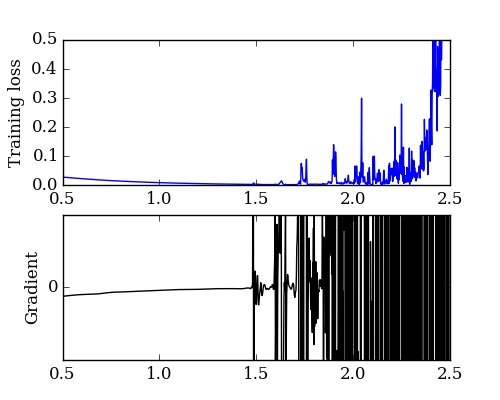
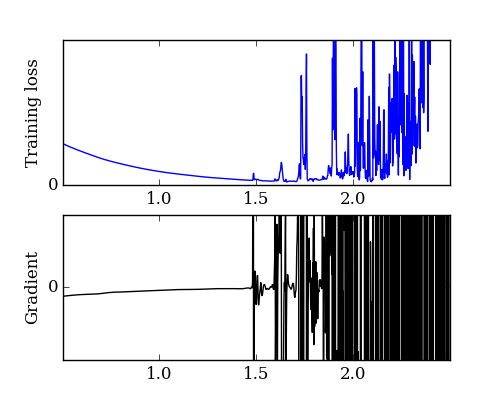
Made chaos figure and text nicer

diff --git a/paper/hypergrad_paper.tex b/paper/hypergrad_paper.tex
@@ -528,9 +528,12 @@ Likewise, the use of hypergradients also has several apparent difficulties that 
 This section explores several issues with this technique that became apparent to its first practitioners.
 
 \paragraph{When are gradients meaningful?}
-\citet{bengio1994learning} noted that "learning long-term dependencies with gradient descent is difficult."
-Learning hyperparameters whose gradient itself depends on hundreds of iterations of gradient descent raises some of the same issues.
+\citet{bengio1994learning} noted that ``learning long-term dependencies with gradient descent is difficult.''
+Our situation is even worse: We are using gradients to optimize functions which depend on their hyperparameters through hundreds of iterations of SGD.
+To make things worse, each \primal{} iteration's gradient itself depends on forward- and then back-propagation through a neural network.
+Thus the same issues that sometimes make \primal{} learning difficult are compounded.
 
+% raises the same issues.
 %As shown in Figure \ref{fig:nn weight init scales}, the meta-optimization in this experiment did not completely converge after 50 meta-iterations.
 %We stopped meta-learning at this point to avoid an unfortunate pathology of learning learning rate.
 
@@ -539,26 +542,30 @@ For example, \citet*[Chapter 4]{pearlmutter1996investigation} showed that
 large learning rates induce chaotic behavior in the learning dynamics,
 %Learning rate must be large enough to reach convergence, but not so large that they induce chaotic behavior in the learning dynamics.
 making the gradient uninformative about the medium-term shape of the training objective.
-Figure \ref{fig:chaos} illustrates this problem.
+This phenomenon is related to the exploding-gradient problem~\cite{pascanu2012understanding}.
 
-\begin{figure}[h!]
+Figure \ref{fig:chaos} illustrates phenomenon when training a neural network having 2 hidden layers.
+%
+\begin{figure}[t]
 \vskip 0.2in
 \begin{center}
-\includegraphics[width=\columnwidth]{../experiments/Jan_14_learning_rate_wiggliness/2/chaos.pdf}
+\includegraphics[width=\columnwidth]{../experiments/Jan_14_learning_rate_wiggliness/3/chaos.pdf}
 \vskip -0.1in
 Log learning rate
-\caption{When the learning rate is too high, the gradient becomes uninformative about the medium-term behavior of the function.
-The step sizes which lead to chaotic behavior are only slightly larger than the optimal step sizes.}
+\caption{\emph{Top:} Loss after training as a function of learning rate.
+\emph{Bottom:} Gradient of loss with respect to learning rate.
+When the learning rate is high, the gradient becomes uninformative about the medium-term behavior of the function.
+To maintain stability during meta-learning, we initialize using a small learning rate so as to approach the minimum from the left.}
 \label{fig:chaos}
 \end{center}
 \vskip -0.2in
 \end{figure} 
-
+%
 We partially addressed this problem by initializing our learning rate schedules to be relatively small, and stopping meta-optimization when the magnitude of the meta-gradient began to grow.
 %\cite{pearlmutter2009sleep} argues that biological neural networks tune themselves so as to be at the "edge of chaos".
 %Lower learning rates don't reach convergence before training ends.
 %Empirically, it seems like the best learning rates for training neural networks are just small enough to avoid this chaotic behavior.
-This phenomenon is related to the exploding-gradient problem~\cite{pascanu2012understanding}.
+
 
 %Gradient-based optimizers can perform poorly when the surface being optimized is locally ``wiggly''.
 %Small wiggles cause both the direction and size of the gradient to be less correlated with the medium-scale shape of the function.

diff --git a/experiments/Jan_14_learning_rate_wiggliness/3/experiment.py b/experiments/Jan_14_learning_rate_wiggliness/3/experiment.py
@@ -21,7 +21,7 @@ N_iters = 50
 N_data = 10**3
 
 N_meta_iter = 1000
-all_log_alpha_0 = np.linspace(0.5, 2.5, N_meta_iter)
+log_stepsizes = np.linspace(0.5, 2.5, N_meta_iter)
 
 def d_log_loss(x, dx):
     return np.sum(x * dx)
@@ -39,7 +39,7 @@ def run():
 
     losses = []
     d_losses = []
-    for log_alpha_0 in all_log_alpha_0:
+    for log_alpha_0 in log_stepsizes:
         npr.seed(0)
         V0 = npr.randn(N_weights) * velocity_scale
         alpha_0 = np.exp(log_alpha_0)
@@ -66,18 +66,23 @@ def plot():
     fig.clf()
     fig.set_size_inches((5,4))
     ax = fig.add_subplot(211)
-    ax.plot(all_log_alpha_0, losses, 'b-', label="loss")
-    ax.set_ylim([-0, 0.5])
+    ax.plot(log_stepsizes, losses, 'b-', label="loss")
+    ax.set_ylim([0, 0.1])
+    ax.set_yticks([0.0,])
+    #ax.set_xticks([np.min(log_stepsizes), np.max(log_stepsizes)])
+    ax.set_xticks([1.0, 1.5, 2.0])
     ax.set_ylabel("Training loss")
     #ax.set_xlabel(xlabel)
     # ax.legend(loc=4)
 
     ax = fig.add_subplot(212)
-    ax.plot(all_log_alpha_0, d_losses, 'k-', label="Gradient of loss")
+    ax.plot(log_stepsizes, d_losses, 'k-', label="Gradient of loss")
     #ax.set_title("Grad loss vs step size")
     ax.set_ylim([-0.5, 0.5])
     ax.set_ylabel("Gradient")
     ax.set_yticks([0.0,])
+    #ax.set_xticks([np.min(log_stepsizes), np.max(log_stepsizes)])
+    ax.set_xticks([1.0, 1.5, 2.0])
     #ax.set_xlabel(xlabel)
     #ax.legend(loc=2)
     #plt.savefig("/tmp/fig.png")
@@ -85,7 +90,7 @@ def plot():
     plt.savefig('chaos.pdf', pad_inches=0.1, bbox_inches='tight')
 
 if __name__ == '__main__':
-    results = run()
-    with open('results.pkl', 'w') as f:
-        pickle.dump(results, f)
+    #results = run()
+    #with open('results.pkl', 'w') as f:
+    #    pickle.dump(results, f)
     plot()
